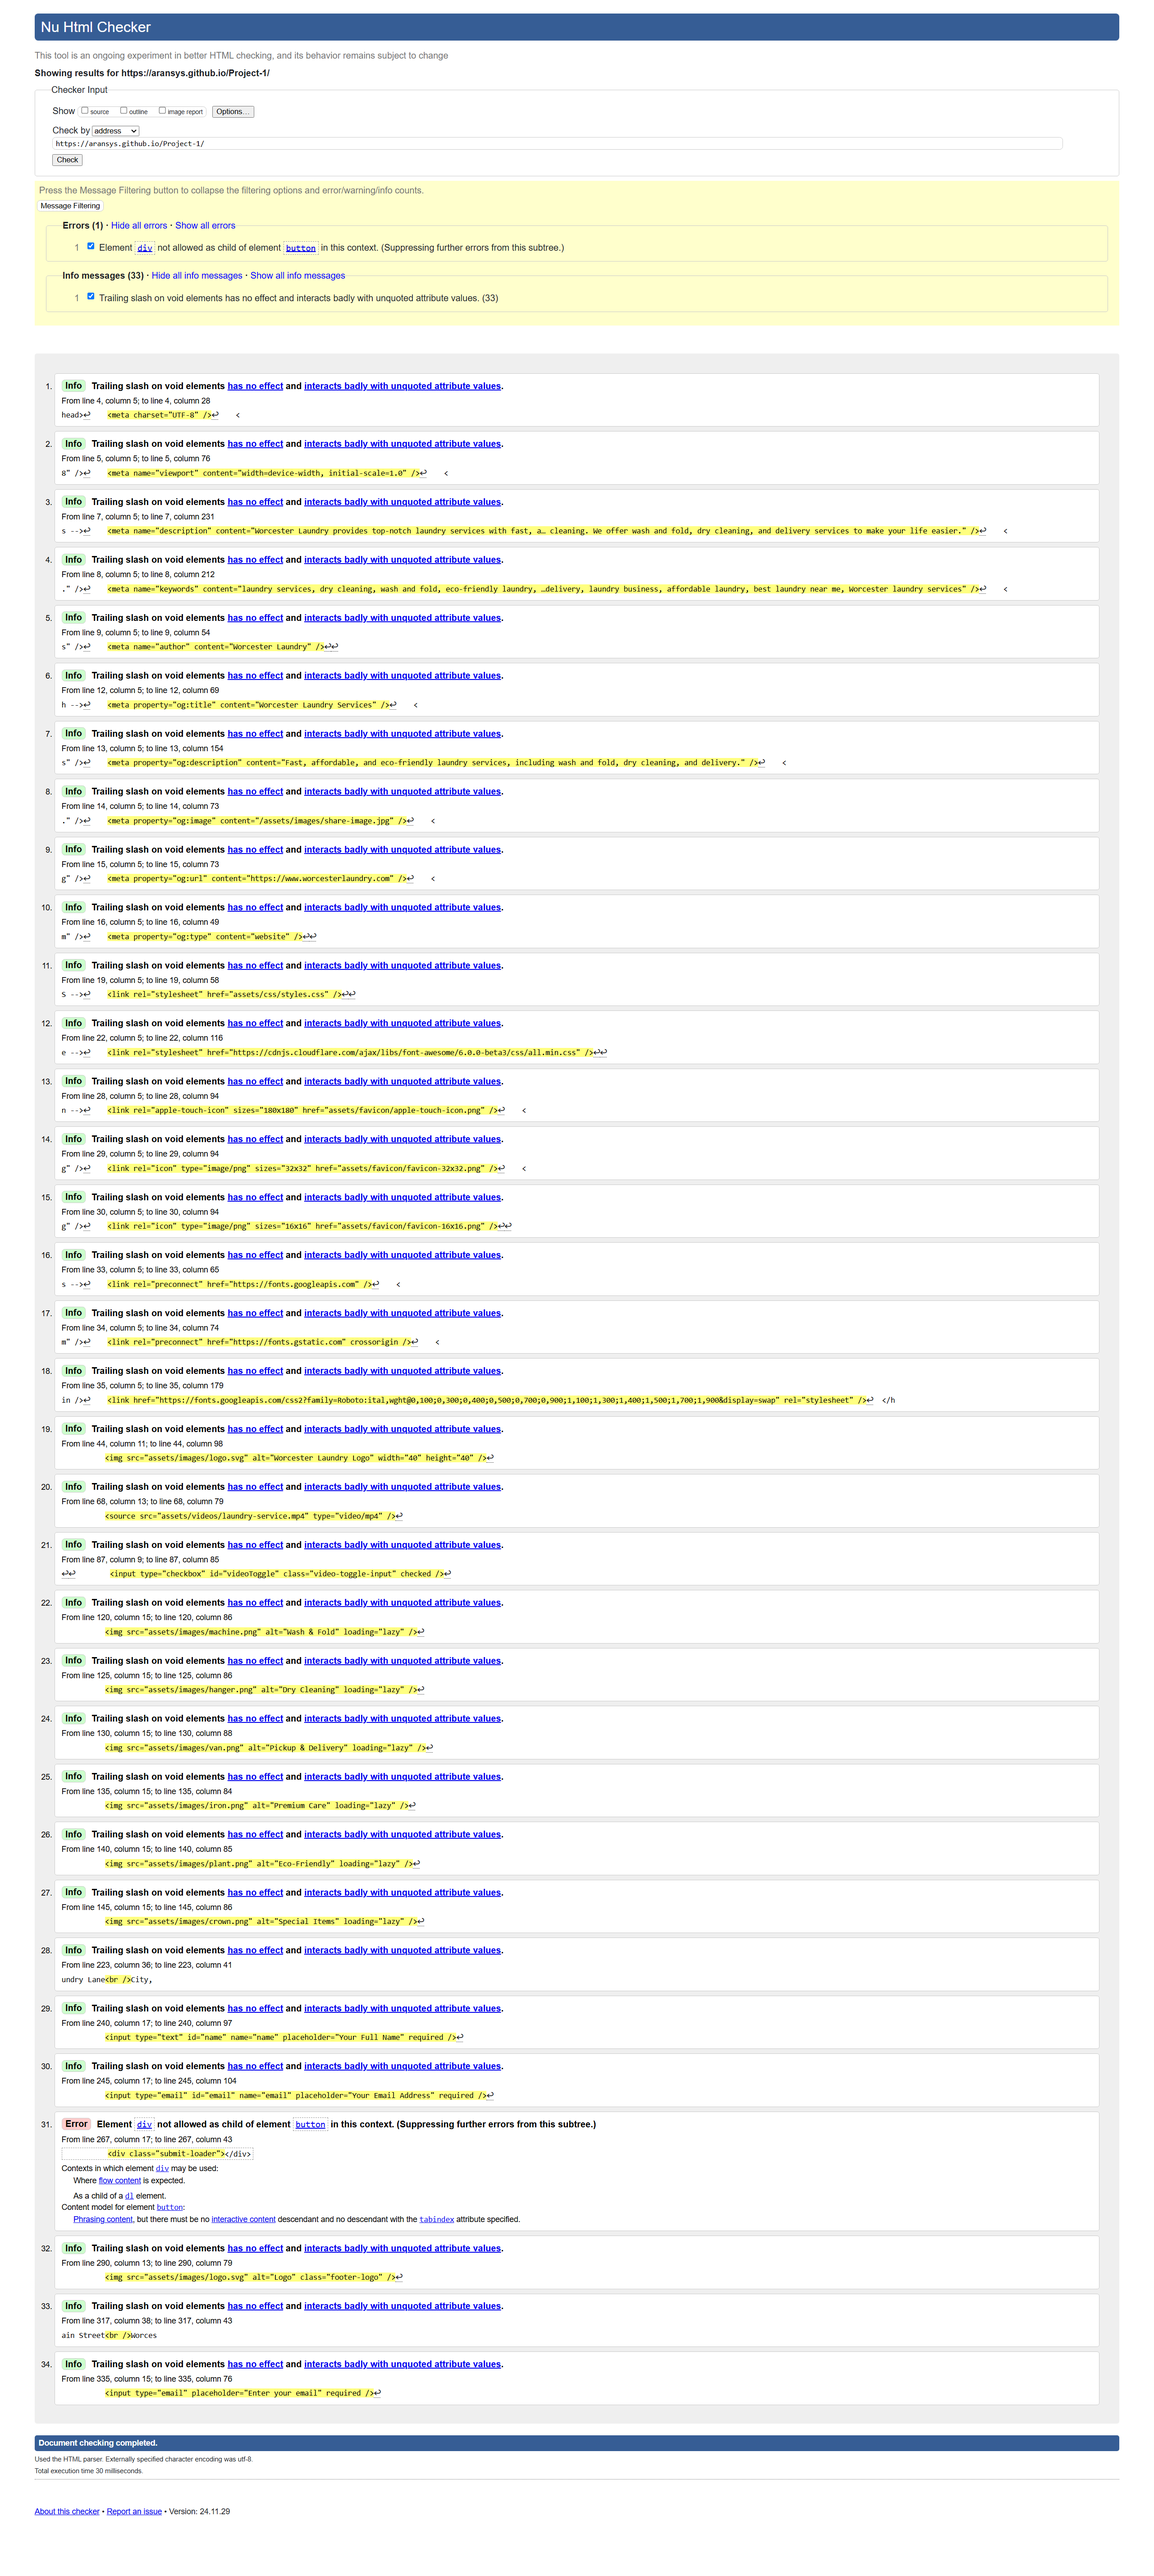
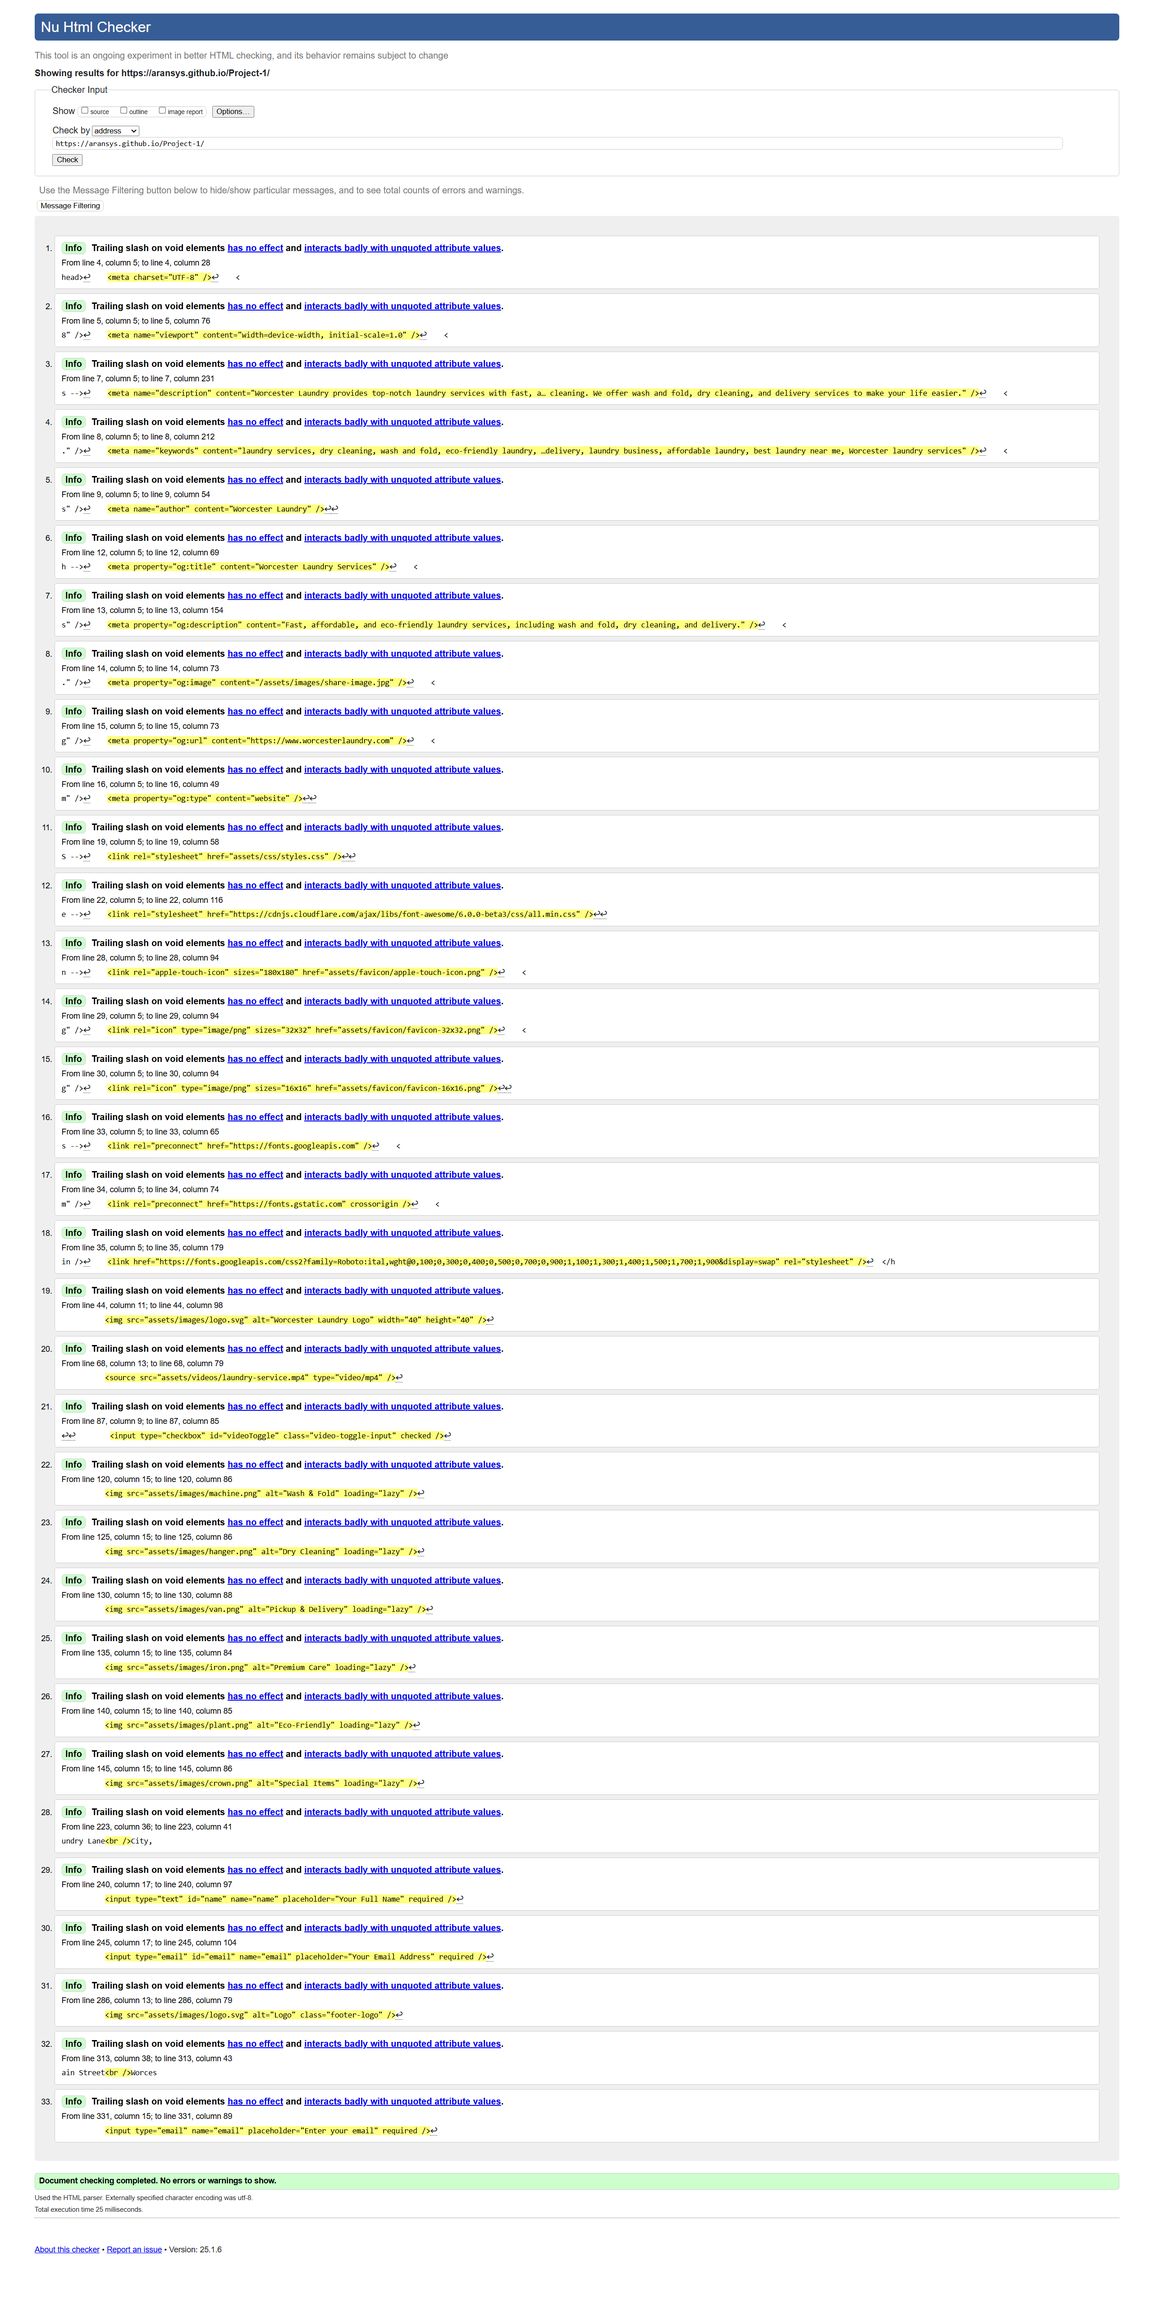
updated html validation and image

Changed region(s): [[0.0312, 0.0, 0.9688, 0.9657]]

diff --git a/index.html b/index.html
@@ -4,13 +4,22 @@
     <meta charset="UTF-8" />
     <meta name="viewport" content="width=device-width, initial-scale=1.0" />
     <!-- Meta tags for search engines -->
-    <meta name="description" content="Worcester Laundry provides top-notch laundry services with fast, affordable, and eco-friendly cleaning. We offer wash and fold, dry cleaning, and delivery services to make your life easier." />
-    <meta name="keywords" content="laundry services, dry cleaning, wash and fold, eco-friendly laundry, laundry delivery, laundry business, affordable laundry, best laundry near me, Worcester laundry services" />
+    <meta
+      name="description"
+      content="Worcester Laundry provides top-notch laundry services with fast, affordable, and eco-friendly cleaning. We offer wash and fold, dry cleaning, and delivery services to make your life easier."
+    />
+    <meta
+      name="keywords"
+      content="laundry services, dry cleaning, wash and fold, eco-friendly laundry, laundry delivery, laundry business, affordable laundry, best laundry near me, Worcester laundry services"
+    />
     <meta name="author" content="Worcester Laundry" />
 
     <!-- Open Graph -->
     <meta property="og:title" content="Worcester Laundry Services" />
-    <meta property="og:description" content="Fast, affordable, and eco-friendly laundry services, including wash and fold, dry cleaning, and delivery." />
+    <meta
+      property="og:description"
+      content="Fast, affordable, and eco-friendly laundry services, including wash and fold, dry cleaning, and delivery."
+    />
     <meta property="og:image" content="/assets/images/share-image.jpg" />
     <meta property="og:url" content="https://www.worcesterlaundry.com" />
     <meta property="og:type" content="website" />
@@ -19,20 +28,40 @@
     <link rel="stylesheet" href="assets/css/styles.css" />
 
     <!-- Font Awesome -->
-    <link rel="stylesheet" href="https://cdnjs.cloudflare.com/ajax/libs/font-awesome/6.0.0-beta3/css/all.min.css" />
+    <link
+      rel="stylesheet"
+      href="https://cdnjs.cloudflare.com/ajax/libs/font-awesome/6.0.0-beta3/css/all.min.css"
+    />
 
     <!-- Title -->
     <title>Worcester Laundry</title>
 
     <!-- Favicon -->
-    <link rel="apple-touch-icon" sizes="180x180" href="assets/favicon/apple-touch-icon.png" />
-    <link rel="icon" type="image/png" sizes="32x32" href="assets/favicon/favicon-32x32.png" />
-    <link rel="icon" type="image/png" sizes="16x16" href="assets/favicon/favicon-16x16.png" />
+    <link
+      rel="apple-touch-icon"
+      sizes="180x180"
+      href="assets/favicon/apple-touch-icon.png"
+    />
+    <link
+      rel="icon"
+      type="image/png"
+      sizes="32x32"
+      href="assets/favicon/favicon-32x32.png"
+    />
+    <link
+      rel="icon"
+      type="image/png"
+      sizes="16x16"
+      href="assets/favicon/favicon-16x16.png"
+    />
 
     <!-- Fonts -->
     <link rel="preconnect" href="https://fonts.googleapis.com" />
     <link rel="preconnect" href="https://fonts.gstatic.com" crossorigin />
-    <link href="https://fonts.googleapis.com/css2?family=Roboto:ital,wght@0,100;0,300;0,400;0,500;0,700;0,900;1,100;1,300;1,400;1,500;1,700;1,900&display=swap" rel="stylesheet" />
+    <link
+      href="https://fonts.googleapis.com/css2?family=Roboto:ital,wght@0,100;0,300;0,400;0,500;0,700;0,900;1,100;1,300;1,400;1,500;1,700;1,900&display=swap"
+      rel="stylesheet"
+    />
   </head>
 
   <body>
@@ -40,11 +69,24 @@
     <a href="#main-content" class="skip-link">Skip to main content</a>
     <header class="header">
       <nav class="navbar" aria-label="Main navigation">
-        <a href="#hero" class="navbar-brand" aria-label="Worcester Laundry Home">
-          <img src="assets/images/logo.svg" alt="Worcester Laundry Logo" width="40" height="40" />
+        <a
+          href="#hero"
+          class="navbar-brand"
+          aria-label="Worcester Laundry Home"
+        >
+          <img
+            src="assets/images/logo.svg"
+            alt="Worcester Laundry Logo"
+            width="40"
+            height="40"
+          />
         </a>
 
-        <button class="hamburger" aria-label="Toggle menu" aria-expanded="false">
+        <button
+          class="hamburger"
+          aria-label="Toggle menu"
+          aria-expanded="false"
+        >
           <span></span>
           <span></span>
           <span></span>
@@ -73,7 +115,10 @@
 
         <div class="hero-content">
           <h1 class="hero-title">Discover Flawless Cleanliness</h1>
-          <p class="hero-description">No more laundry headaches! Worcester Laundry Service has you covered with expert care.</p>
+          <p class="hero-description">
+            No more laundry headaches! Worcester Laundry Service has you covered
+            with expert care.
+          </p>
           <div class="hero-buttons">
             <a href="#services" class="btn btn-primary">
               <span>Our Services</span>
@@ -84,7 +129,12 @@
           </div>
         </div>
 
-        <input type="checkbox" id="videoToggle" class="video-toggle-input" checked />
+        <input
+          type="checkbox"
+          id="videoToggle"
+          class="video-toggle-input"
+          checked
+        />
         <label for="videoToggle" class="video-toggle-label">⏸</label>
 
         <a href="#services" class="scroll-arrow">
@@ -117,34 +167,72 @@
           <h2>Our Services</h2>
           <div class="services-container">
             <div class="service">
-              <img src="assets/images/machine.png" alt="Wash & Fold" loading="lazy" />
+              <img
+                src="assets/images/machine.png"
+                alt="Wash & Fold"
+                loading="lazy"
+              />
               <h3>Wash & Fold</h3>
-              <p>Professional washing, drying and expert folding for your everyday laundry needs.</p>
+              <p>
+                Professional washing, drying and expert folding for your
+                everyday laundry needs.
+              </p>
             </div>
             <div class="service">
-              <img src="assets/images/hanger.png" alt="Dry Cleaning" loading="lazy" />
+              <img
+                src="assets/images/hanger.png"
+                alt="Dry Cleaning"
+                loading="lazy"
+              />
               <h3>Dry Cleaning</h3>
               <p>Expert cleaning for suits, dresses, and formal wear.</p>
             </div>
             <div class="service">
-              <img src="assets/images/van.png" alt="Pickup & Delivery" loading="lazy" />
+              <img
+                src="assets/images/van.png"
+                alt="Pickup & Delivery"
+                loading="lazy"
+              />
               <h3>Free Delivery</h3>
-              <p>Convenient pickup and delivery within 24 hours at your preferred location.</p>
+              <p>
+                Convenient pickup and delivery within 24 hours at your preferred
+                location.
+              </p>
             </div>
             <div class="service">
-              <img src="assets/images/iron.png" alt="Premium Care" loading="lazy" />
+              <img
+                src="assets/images/iron.png"
+                alt="Premium Care"
+                loading="lazy"
+              />
               <h3>Premium Care</h3>
-              <p>Expert ironing, steaming and special treatments for your finest garments.</p>
+              <p>
+                Expert ironing, steaming and special treatments for your finest
+                garments.
+              </p>
             </div>
             <div class="service">
-              <img src="assets/images/plant.png" alt="Eco-Friendly" loading="lazy" />
+              <img
+                src="assets/images/plant.png"
+                alt="Eco-Friendly"
+                loading="lazy"
+              />
               <h3>Eco-Friendly</h3>
-              <p>Sustainable methods with green detergents and energy efficiency.</p>
+              <p>
+                Sustainable methods with green detergents and energy efficiency.
+              </p>
             </div>
             <div class="service">
-              <img src="assets/images/crown.png" alt="Special Items" loading="lazy" />
+              <img
+                src="assets/images/crown.png"
+                alt="Special Items"
+                loading="lazy"
+              />
               <h3>Special Items</h3>
-              <p>Custom care for leather, suede, wedding gowns and other specialty items.</p>
+              <p>
+                Custom care for leather, suede, wedding gowns and other
+                specialty items.
+              </p>
             </div>
           </div>
 
@@ -237,12 +325,24 @@
             <form class="contact-form" action="thankyou.html">
               <div class="form-group">
                 <label for="name">Name</label>
-                <input type="text" id="name" name="name" placeholder="Your Full Name" required />
+                <input
+                  type="text"
+                  id="name"
+                  name="name"
+                  placeholder="Your Full Name"
+                  required
+                />
               </div>
 
               <div class="form-group">
                 <label for="email">Email</label>
-                <input type="email" id="email" name="email" placeholder="Your Email Address" required />
+                <input
+                  type="email"
+                  id="email"
+                  name="email"
+                  placeholder="Your Email Address"
+                  required
+                />
               </div>
 
               <div class="form-group">
@@ -258,7 +358,12 @@
 
               <div class="form-group">
                 <label for="message">Message</label>
-                <textarea id="message" name="message" placeholder="Your Message" required></textarea>
+                <textarea
+                  id="message"
+                  name="message"
+                  placeholder="Your Message"
+                  required
+                ></textarea>
               </div>
 
               <button type="submit" class="contact-submit">Send Message</button>
@@ -284,12 +389,23 @@
           <!-- About Section -->
           <div class="footer-about">
             <img src="assets/images/logo.svg" alt="Logo" class="footer-logo" />
-            <p>Professional laundry services tailored to your needs. Quality care for your garments since 1995.</p>
+            <p>
+              Professional laundry services tailored to your needs. Quality care
+              for your garments since 1995.
+            </p>
             <div class="footer-socials">
-              <a href="https://facebook.com/" target="_blank"><i class="fab fa-facebook-f"></i></a>
-              <a href="https://twitter.com/" target="_blank"><i class="fab fa-twitter"></i></a>
-              <a href="https://instagram.com/" target="_blank"><i class="fab fa-instagram"></i></a>
-              <a href="https://linkedin.com/in/" target="_blank"><i class="fab fa-linkedin-in"></i></a>
+              <a href="https://facebook.com/" target="_blank"
+                ><i class="fab fa-facebook-f"></i
+              ></a>
+              <a href="https://twitter.com/" target="_blank"
+                ><i class="fab fa-twitter"></i
+              ></a>
+              <a href="https://instagram.com/" target="_blank"
+                ><i class="fab fa-instagram"></i
+              ></a>
+              <a href="https://linkedin.com/in/" target="_blank"
+                ><i class="fab fa-linkedin-in"></i
+              ></a>
             </div>
           </div>
 
@@ -318,7 +434,9 @@
               </li>
               <li>
                 <i class="fas fa-envelope"></i>
-                <span><a href="mailto:info@example.com">info@example.com</a></span>
+                <span
+                  ><a href="mailto:info@example.com">info@example.com</a></span
+                >
               </li>
             </ul>
           </div>
@@ -328,7 +446,12 @@
             <h3>Newsletter</h3>
             <p>Subscribe for updates and offers</p>
             <form class="newsletter-form" action="newsletter-thanks.html">
-              <input type="email" name="email" placeholder="Enter your email" required />
+              <input
+                type="email"
+                name="email"
+                placeholder="Enter your email"
+                required
+              />
               <button type="submit">Subscribe</button>
             </form>
           </div>

diff --git a/assets/css/styles.css b/assets/css/styles.css
@@ -1636,7 +1636,6 @@ body {
 /* High Resolution Screens */
 @media (-webkit-min-device-pixel-ratio: 2), (min-resolution: 192dpi) {
   html {
-    font-smoothing: antialiased;
     -webkit-font-smoothing: antialiased;
   }
 }

diff --git a/README.md b/README.md
@@ -481,8 +481,7 @@ Testing was conducted using BrowserStack to ensure the website works seamlessly 
 
 ### HTML Validation (W3C Markup Validator)
 
-- **Status**: Passed with 1 error
-- **Error**: [Screenshot and description of the error should be added]
+- **Status**: Passed
 - **Validation URL**: https://validator.w3.org/
 - **Date Tested**: [12/19/2024]
 
